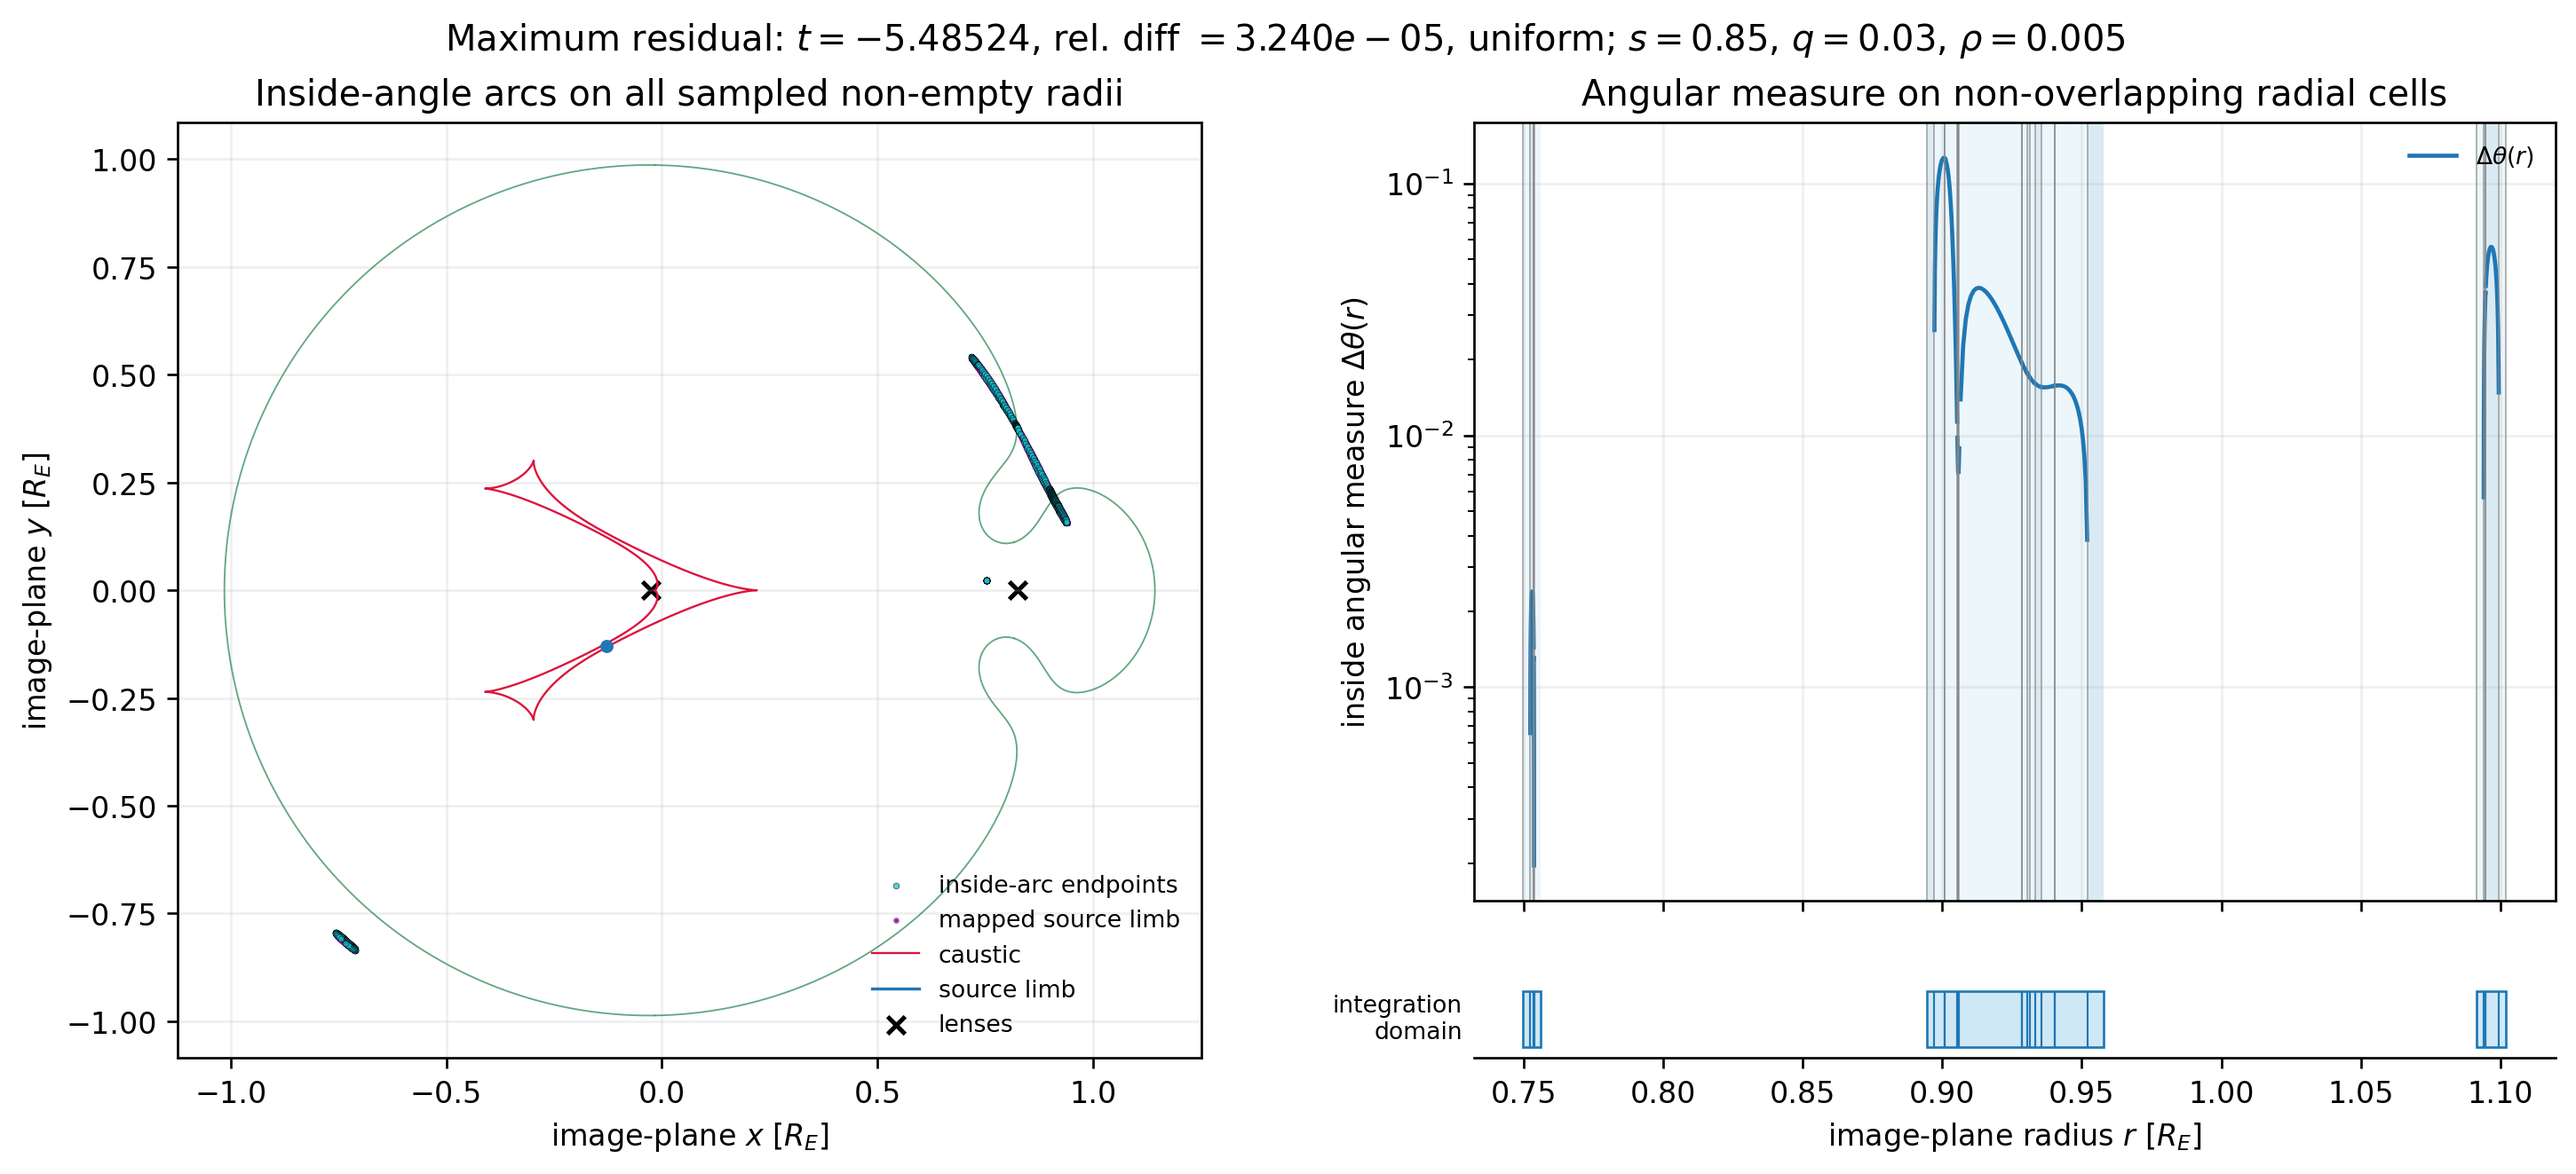
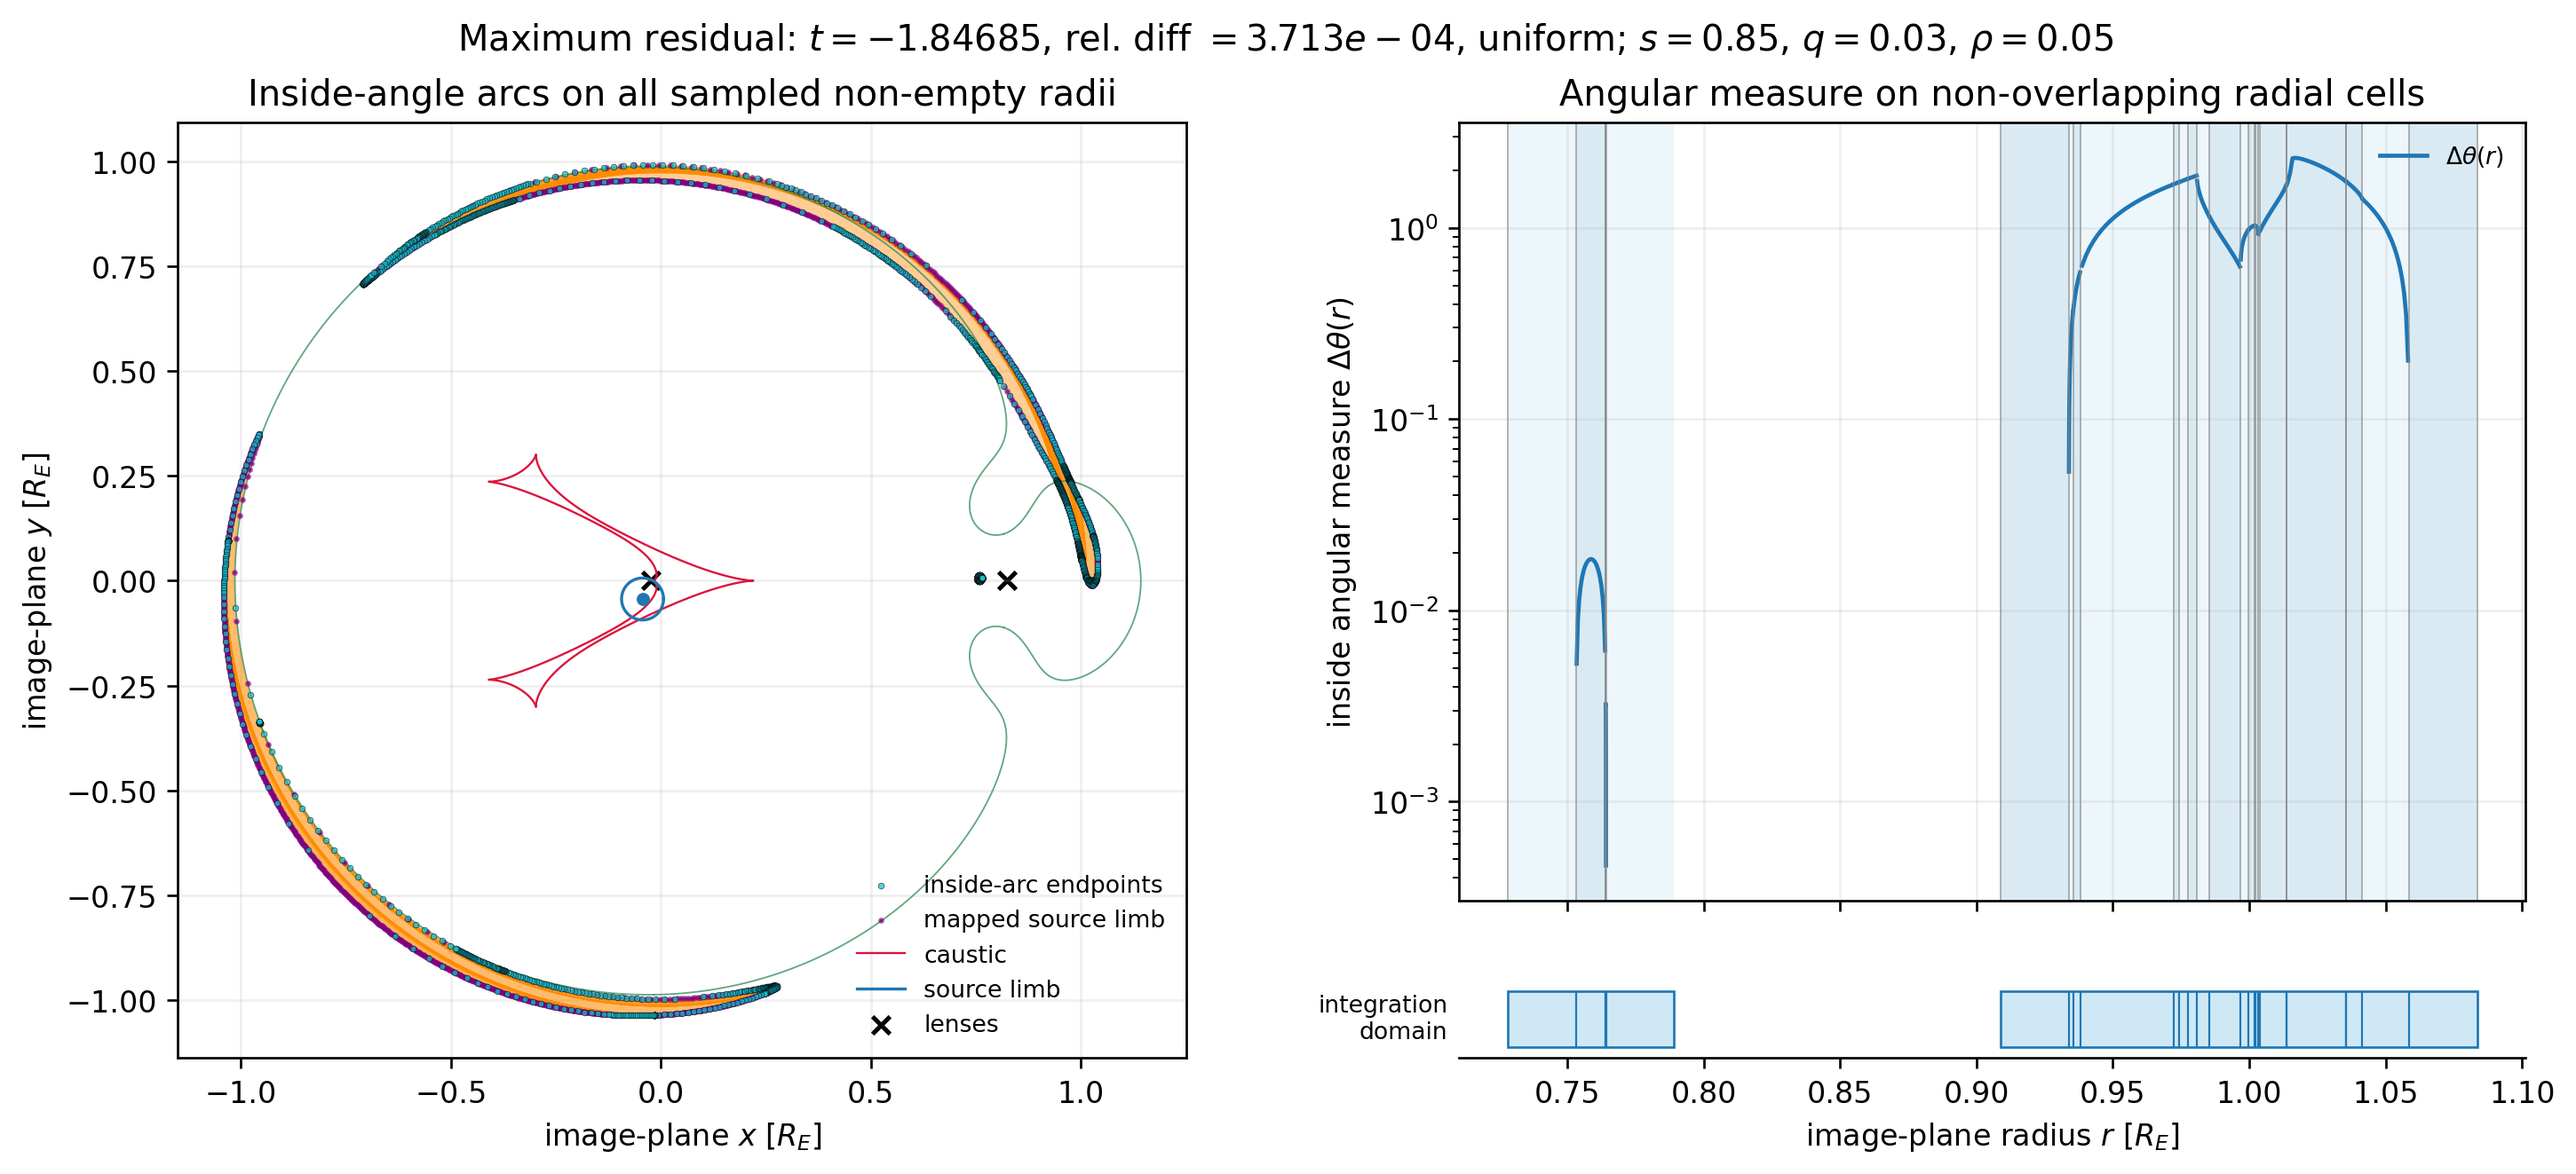
examples: refresh binary uniform comparison

diff --git a/example/compare-vbbl/compare_binary_uniform.py b/example/compare-vbbl/compare_binary_uniform.py
@@ -23,7 +23,7 @@ alpha = jnp.deg2rad(45.0)
 tE = 30.0
 t0 = 0.0
 u0 = 0.0
-rho = 5e-3
+rho = 0.05
 nlenses = 2
 
 a = 0.5 * s
